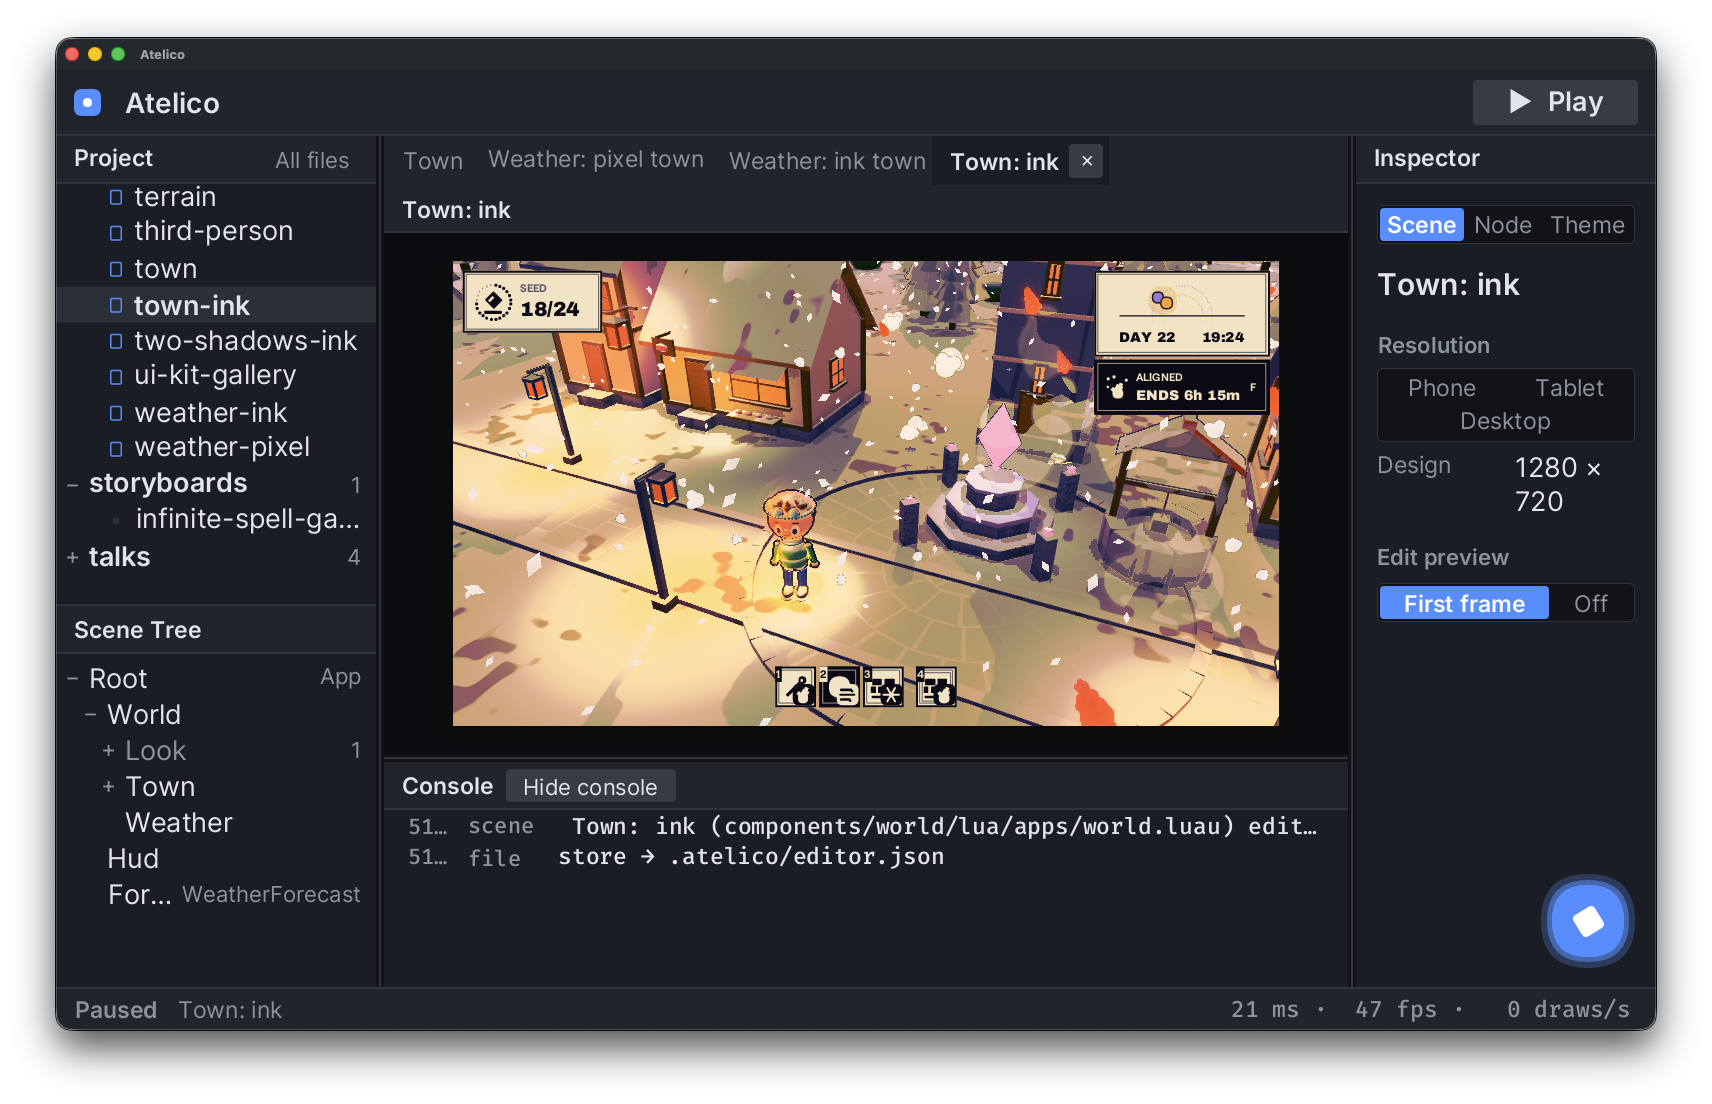
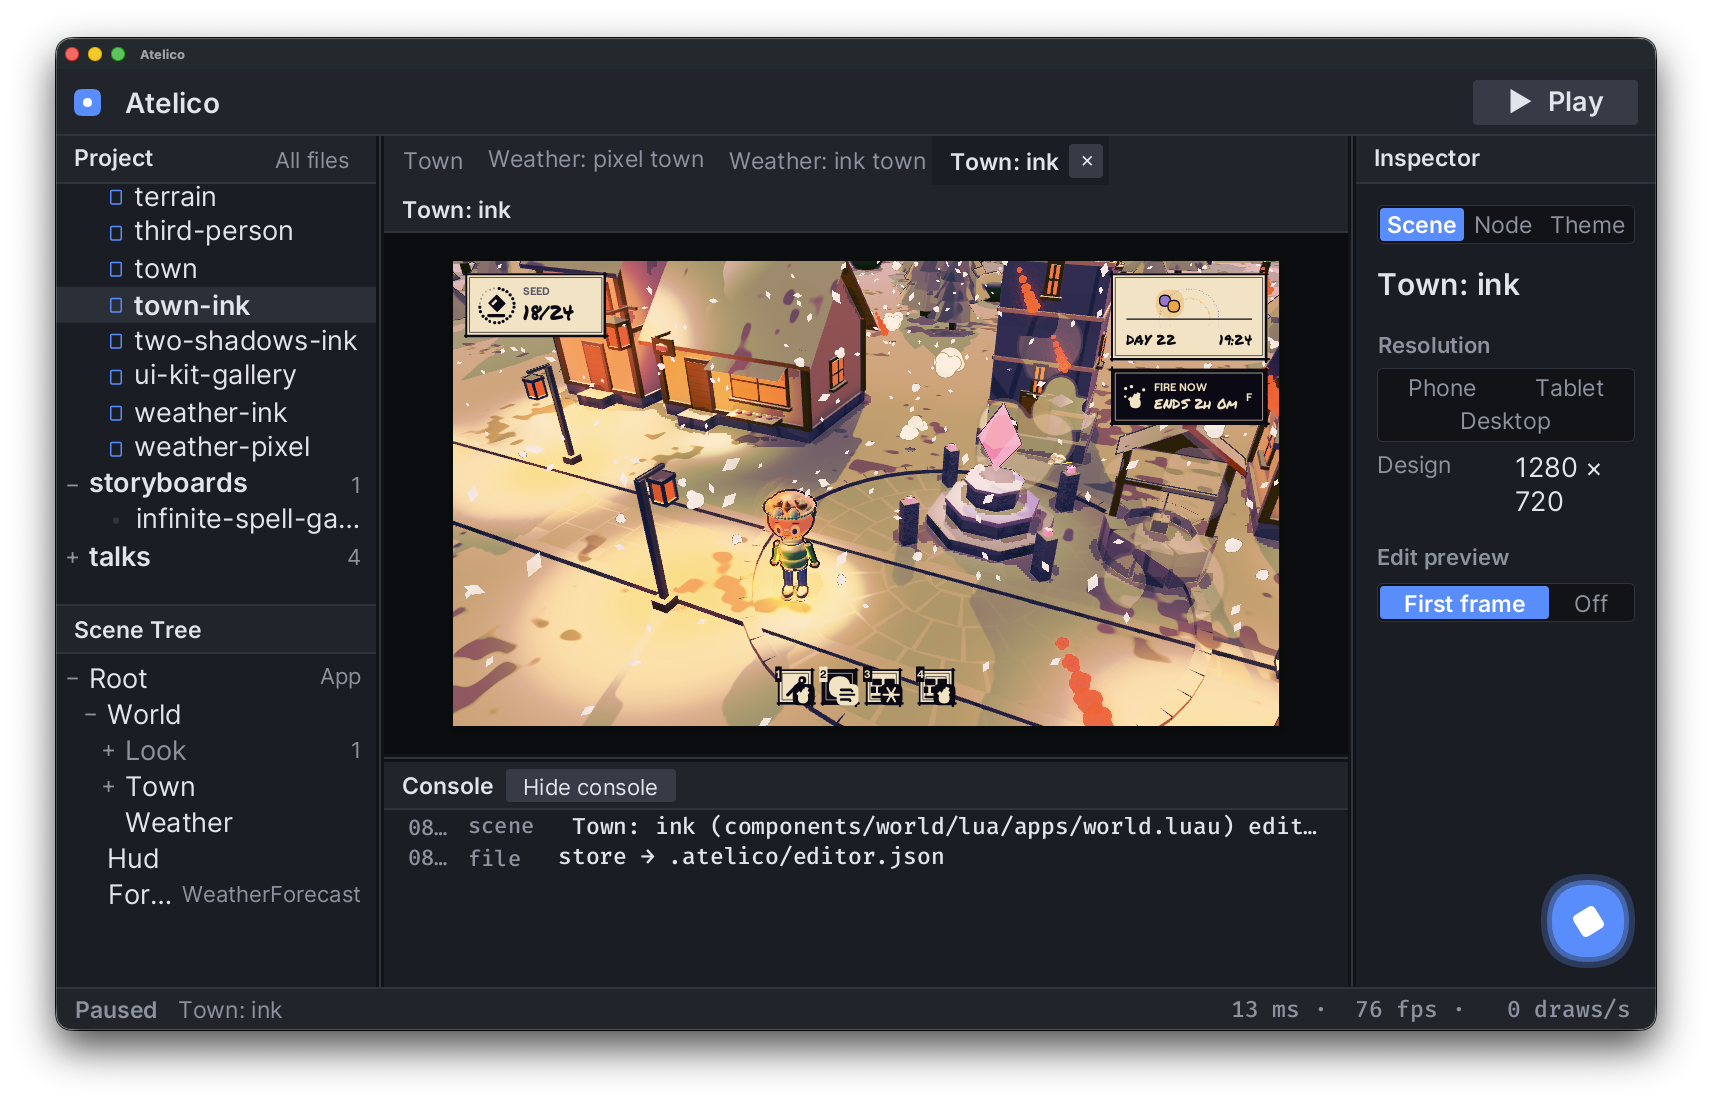
In-game UI: the ink look's brush face and inked frames, the chip on the weather's real fire-in-the-snow times; Paul's window (town and ink)

diff --git a/docs/game-ui.md b/docs/game-ui.md
@@ -158,7 +158,13 @@ Decisions made while building:
   `play-1920x1080.png`.
 - The dial and the chip sit top-right, stacked at one width: the top centre stays clear for the world (the
   watchtower) and the banner.
-- Ink is ink on warm paper: a heavy outer line and a thin inner one, Archivo Black, vector line-art icons (rounded
+- Ink headings and numbers are Permanent Marker (Apache 2.0, bundled in the package); small labels stay Roobert so
+  they read. Its panels are inked like a hand-drawn frame: strokes that cross and run past each other at the
+  corners, heavier along the bottom and right, round warm paper.
+- The chip counts down to the weather package's fire in the snow ("FIRE IN 2D 21H"; while it falls "FIRE NOW, ENDS
+  2H 0M"), from `weather.days` and `weather.at`; the moons' alignment probe is the fallback. Seed, spells and
+  creatures stay stubs until the spell core lands.
+- Ink was ink on warm paper: a heavy outer line and a thin inner one, Archivo Black, vector line-art icons (rounded
   and turned boxes). Selection and danger both invert the plate (no hue: purple and orange stay the moons').
 
 ## Judging the look (art director, images only, a fresh judge each round)
